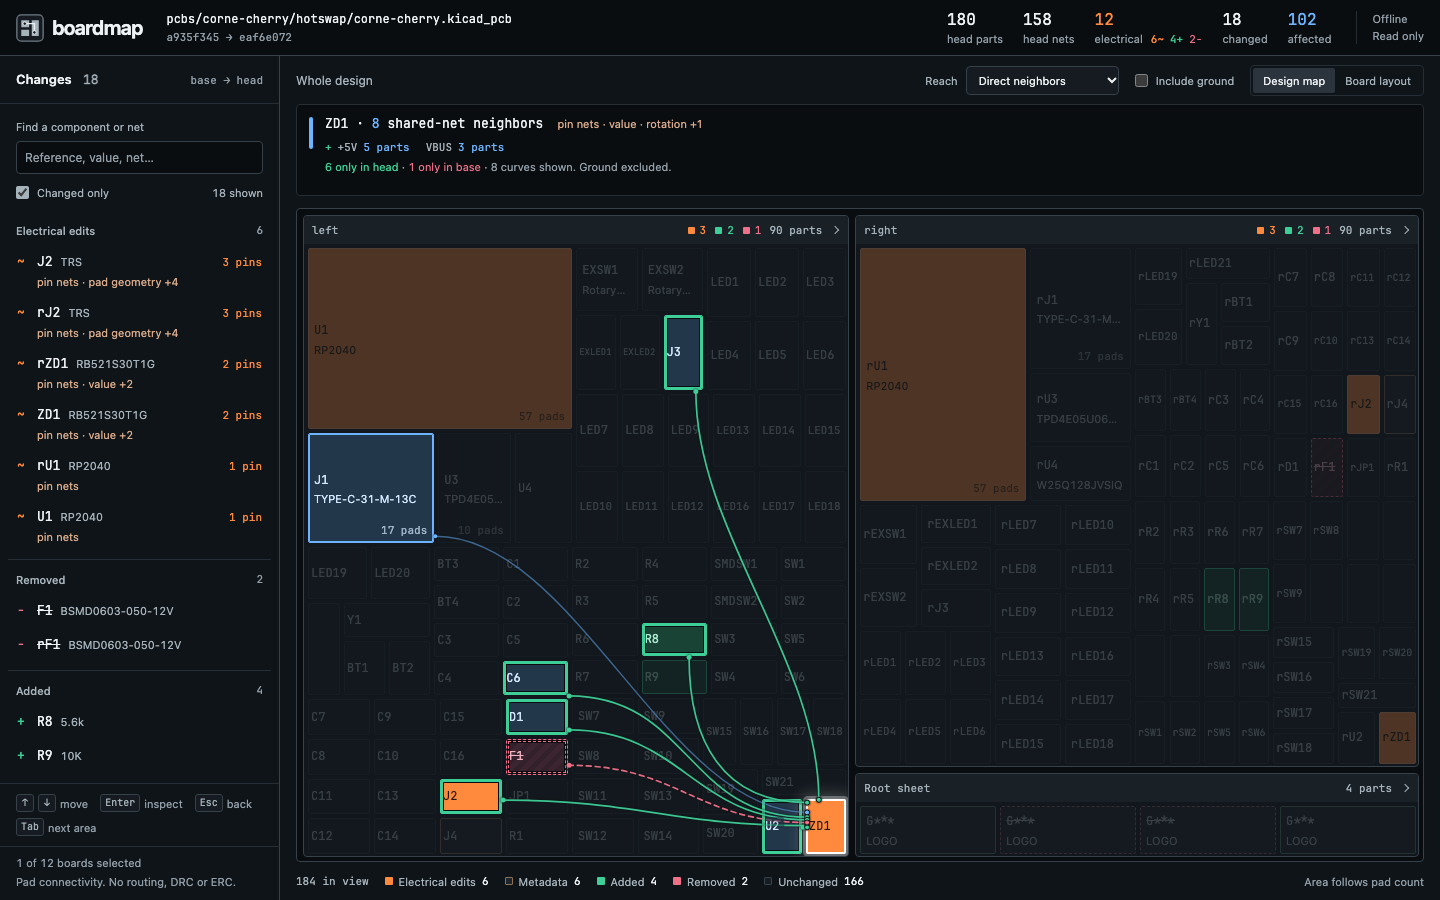
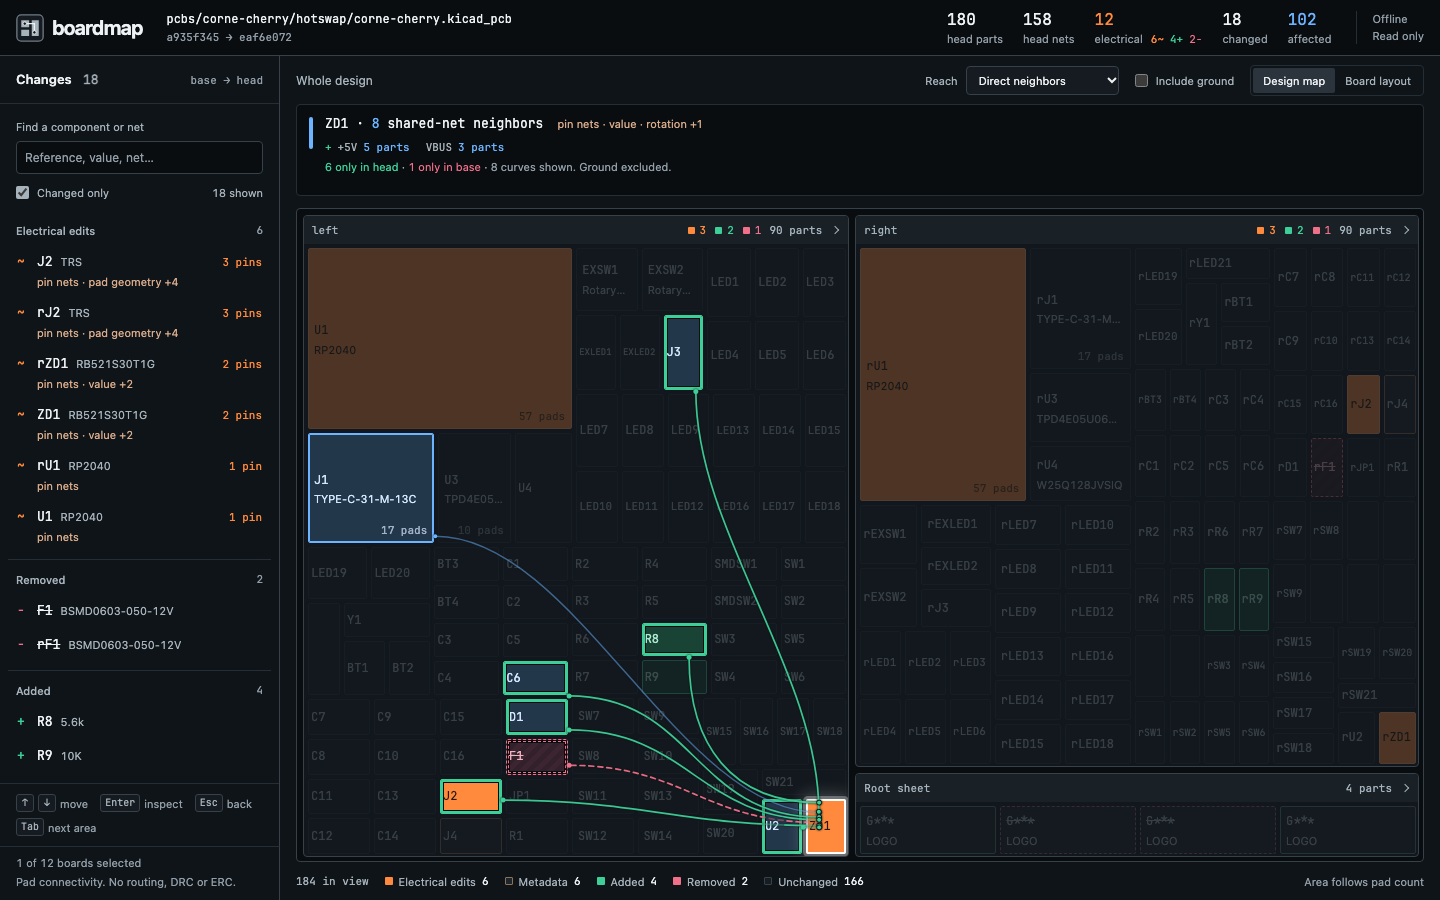
Retake the gallery after the round 5 changes

diff --git a/docs/media/ui/README.md b/docs/media/ui/README.md
@@ -14,7 +14,7 @@ Actual Chromium captures of the running UI on the pinned HackRF PR 1411 and Corn
 | `map/hackrf/map-reach.png`, `map/corne/map-reach.png` | 1440 × 900 | Hovering U17 or ZD1 draws curves that leave and meet tiles square to their edges. Neighbors connected only in head are green, neighbors connected only in base are dashed pink, and neighbors connected in both stay blue. Curves fade under part names and pass behind sheet headers, and a dot marks where each one leaves the traced part. On HackRF U17, the VCC and VAA rail loads are tinted without curves. |
 | `map/hackrf/hub-reach.png` | 1440 × 900 | U23 has 205 neighbors. Curves are drawn for its changed connections only, and neighbors whose connection did not change are tinted without a ring. |
 | `map/corne/hub-reach.png` | 1440 × 900 | Corne U1 would draw 41 curves, so it is traced as a hub: its 2 changed links are drawn and the rest of its neighbors are tinted. |
-| `map/hackrf/sheet-reach-detail.png` | 2× crop | U17 inside baseband. Dots mark where its 5 changed links leave it, and the curves stay faintly visible under U18's name. |
+| `map/hackrf/sheet-reach-detail.png` | 2× crop | U17 inside baseband. Its 5 changed links start at dots inside U17, and the curves stay faintly visible under U18's name. |
 | `map/hackrf/rail-reach.png` | 1440 × 900 | R38 joined VCC. Its 62 rail-only neighbors are tinted, and rings and curves mark the three parts it reaches through small nets. A halo marks the traced part. |
 | `map/hackrf/sheet.png`, `map/hackrf/sheet-reach.png`, `map/corne/sheet.png`, `map/corne/sheet-reach.png` | 1440 × 900 | A drilled sheet, idle and traced. |
 | `map/hackrf/phone-idle.png`, `map/hackrf/phone-preview.png` | 390 × 844 | The phone readout keeps one height. Idle, it holds the instruction and the key. After a tap, it holds the trace with the Open diff action beside the part name. Reach, ground and the view switch share one row, so the map starts in the upper half of the screen. |
@@ -25,6 +25,7 @@ Actual Chromium captures of the running UI on the pinned HackRF PR 1411 and Corn
 | `board/hackrf/board-reach.png`, `board/corne/board-reach.png` | 1440 × 900 | A trace in Board layout. |
 | `board/hackrf/board-phone-nearby.png` | 390 × 844 | A tap 7 pixels off C159 previews it and lists the changes within 30 pixels as full-size buttons under the board. |
 | `board/hackrf/board-phone-label-tap.png`, `board/corne/board-phone-label-tap.png` | 390 × 844 | Tapping the name "U18" or "J2" previews that part, not whatever marker sits under the name. |
+| `board/corne/board-phone-cluster.png` | 390 px wide, 2× | On the phone, every changed part in Corne's two clusters has its own name. A name that had to move out of the cluster is tied to its marker by a thin line. |
 | `board/corne/board-cluster.png` | 2× crop of `board.png` | F1, R8, R9 and ZD1 sit within 20 pixels on the real board. Their markers are spread apart and each has its own label. |
 | `board/hackrf/board-phone.png`, `board/corne/board-phone.png` | 390 × 844 | The same view on a phone. The canvas takes the board's shape, so Corne's wide board is not left in a strip of empty canvas. |
 | `polish/corne-map.png` | 1440 × 900 | The Metadata legend swatch matches the metadata tiles, and the narrow Root sheet header shows its whole name. |
@@ -32,7 +33,7 @@ Actual Chromium captures of the running UI on the pinned HackRF PR 1411 and Corn
 | `layout/phone-diff.png` | 390 × 844 | A part diff on a phone. |
 | `layout/phone-tiny-part.png` | 390 × 844 | Corne ZD1 is a sliver in the phone overview. One tap opens its sheet with ZD1 previewed and scrolled into view. |
 
-Every capture in this gallery was retaken after the layout change that moved the breadcrumb into the toolbar and the footer under the change list. They were retaken again after the round 2, 3 and 4 changes. At 1440 × 900 the map is now 654 pixels tall, up from 545 before this pass.
+Every capture in this gallery was retaken after the layout change that moved the breadcrumb into the toolbar and the footer under the change list. They were retaken again after the changes from each later council round. At 1440 × 900 the map is now 654 pixels tall, up from 545 before this pass.
 
 Recordings of drill-in, drill-out and curve motion are on the `pr-assets` branch, outside the installed package and the main history.
 
